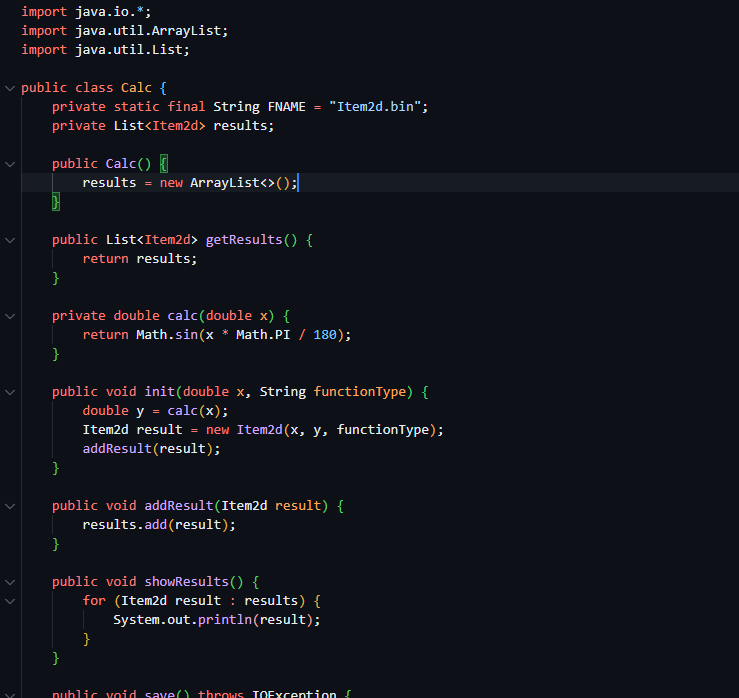
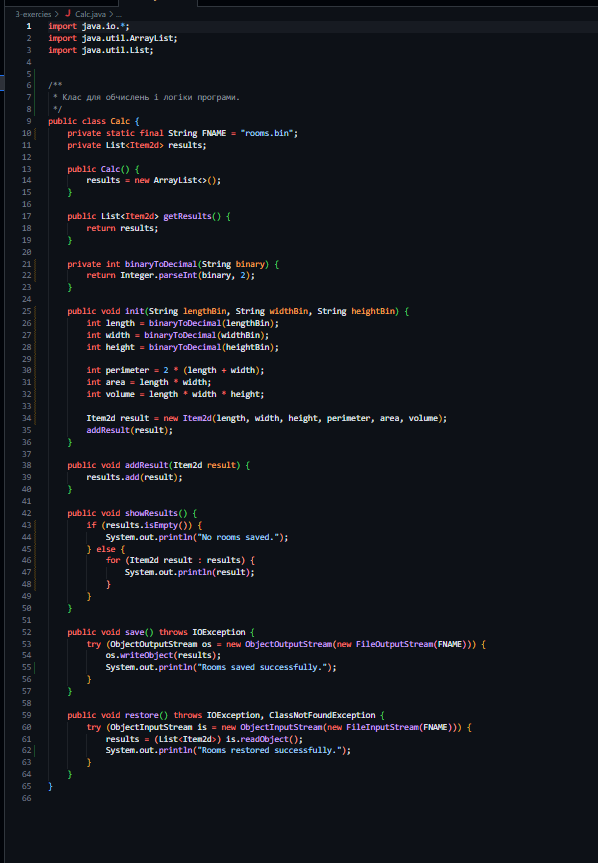
massage

diff --git a/3-exercies/Calc.java b/3-exercies/Calc.java
@@ -2,8 +2,12 @@ import java.io.*;
 import java.util.ArrayList;
 import java.util.List;
 
+
+/**
+ * Клас для обчислень і логіки програми.
+ */
 public class Calc {
-    private static final String FNAME = "Item2d.bin";
+    private static final String FNAME = "rooms.bin";
     private List<Item2d> results;
 
     public Calc() {
@@ -14,13 +18,20 @@ public class Calc {
         return results;
     }
 
-    private double calc(double x) {
-        return Math.sin(x * Math.PI / 180);
+    private int binaryToDecimal(String binary) {
+        return Integer.parseInt(binary, 2);
     }
 
-    public void init(double x, String functionType) {
-        double y = calc(x);
-        Item2d result = new Item2d(x, y, functionType);
+    public void init(String lengthBin, String widthBin, String heightBin) {
+        int length = binaryToDecimal(lengthBin);
+        int width = binaryToDecimal(widthBin);
+        int height = binaryToDecimal(heightBin);
+        
+        int perimeter = 2 * (length + width);
+        int area = length * width;
+        int volume = length * width * height;
+        
+        Item2d result = new Item2d(length, width, height, perimeter, area, volume);
         addResult(result);
     }
 
@@ -29,20 +40,26 @@ public class Calc {
     }
 
     public void showResults() {
-        for (Item2d result : results) {
-            System.out.println(result);
+        if (results.isEmpty()) {
+            System.out.println("No rooms saved.");
+        } else {
+            for (Item2d result : results) {
+                System.out.println(result);
+            }
         }
     }
 
     public void save() throws IOException {
         try (ObjectOutputStream os = new ObjectOutputStream(new FileOutputStream(FNAME))) {
             os.writeObject(results);
+            System.out.println("Rooms saved successfully.");
         }
     }
 
     public void restore() throws IOException, ClassNotFoundException {
         try (ObjectInputStream is = new ObjectInputStream(new FileInputStream(FNAME))) {
             results = (List<Item2d>) is.readObject();
+            System.out.println("Rooms restored successfully.");
         }
     }
 }

diff --git a/README.md b/README.md
@@ -36,6 +36,9 @@
 ![\StasIhnatishin\practice\allPhoto\1example.png](3-exercies/AllPhoto/7example.png)
 ##  ViewableResult.java Клас, що реалізує інтерфейс Viewable і створює об'єкти ViewResult.
 ![\StasIhnatishin\practice\allPhoto\1example.png](3-exercies/AllPhoto/8example.png)
+##  Javadoc документація.
+![\StasIhnatishin\practice\allPhoto\1example.png](3-exercies/AllPhoto/9example.png)
+
 # 4 Завдання 
 ## Main.java файл містить основну логіку програми, що забезпечує інтерфейс взаємодії з користувачем через консоль.
 ![\StasIhnatishin\practice\allPhoto\1example.png](4-exercies/AllPhoto/1example.png)
